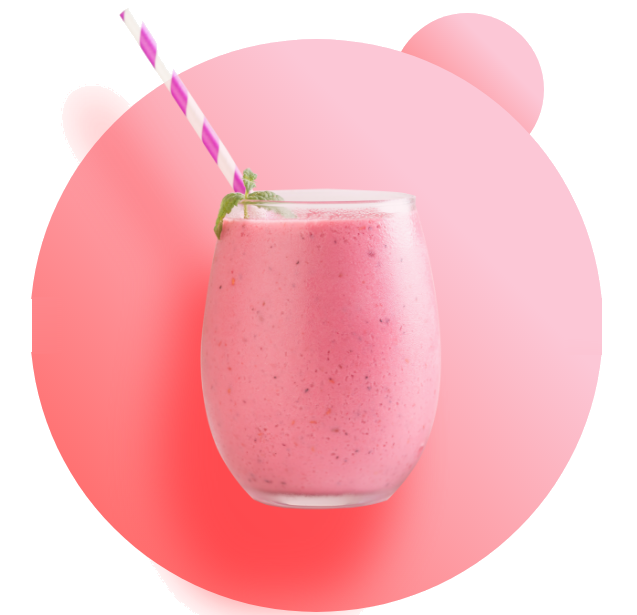
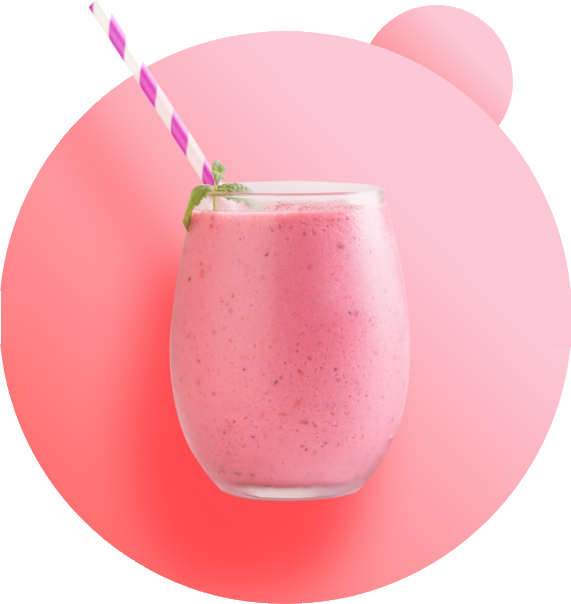
Style updates

diff --git a/css/base/home.css b/css/base/home.css
@@ -2,21 +2,124 @@
 @import '../components/font-awesome.min.css';
 @import '../components/button.css';
 
+:root {
+    --primary-color: #FF5E61;
+}
 
 body {
     display: flex;
     height: 100vh;
     flex-direction: column;
     gap: 30px;
+    padding-top: 20px;
     justify-content: flex-start;
     align-items: center;
-
 }
 
 .container {
+    display: flex;
+    justify-content: flex-end;
+    align-items: center;
+    gap: 50px;
     width: 100%;
-    background-color: yellow;
 }
+
+.container > *:first-child{
+    margin-right: auto;
+}
+
+.logo {
+    max-height: 40px;
+}
+
+.menu {
+    display: flex;
+    gap: 20px;
+}
+
+.menu > a {
+    color: #000;
+    text-decoration: none;
+}
+.menu > a:hover {
+    color: var(--primary-color);
+    text-decoration: underline;
+}
+
+.icons{
+    display: flex;
+    gap: 20px
+}
+
+.icons > a {
+    color: #000;
+    text-decoration: none;
+}   
+.icons > a:hover {
+    color: var(--primary-color);
+    text-decoration: underline;
+}
+
+.gallery {
+    width: 60%;
+    padding: 0 0.7em;
+    position: relative;
+    font-size: 40px;
+}
+
+.gallery > img {
+    width: 100%;
+}
+
+.gallery > .fa {
+    position: absolute;
+    top: 50%;
+    transform: translateY(-50%);
+    width: 1.4em;
+    height: 1.4em;
+    line-height: 1.4em;
+    text-align: center;
+    color: #fff;
+    background-color: var(--primary-color);
+    border-radius: 50%;
+}
+
+.gallery > .fa.fa-angle-left {
+    left: 0;
+    padding-right: 0.17em;
+    /* transform: translateX(-10%); */
+}
+.gallery > .fa.fa-angle-right {
+    right: 0;
+    padding-left: 0.17em;
+    /* transform: translateX(10%); */
+}
+
+.text {
+    width: 40%;
+}
+
+
+
+
+
+
+
+
+
+
+
+
+
+
+
+
+
+
+
+
+
+
 
 @media (min-width: 480px) {
     .container {

diff --git a/index.html b/index.html
@@ -11,10 +11,26 @@
 
 <body>
     <header class="container">
-        HEADER
+        <img class="logo" src="./img/logo.png" alt="Logo">
+        <nav class="menu">
+            <a href="#">Home</a>
+            <a href="#">Smoothies</a>
+            <a href="#">Contact us</a>
+        </nav>
+        <nav class="icons">
+            <a href="#" class="fa fa-shopping-bag"></a>
+            <a href="#" class="fa fa-search"></a>
+        </nav>
     </header>
     <main class="container">
-        MAIN CONTENT
+        <div class="gallery">
+            <img src="./img/smoothie.png" alt="Drink">
+            <i class="fa fa-angle-left"></i>
+            <i class="fa fa-angle-right"></i>
+        </div>
+        <div class="text">
+            ABOUT ITEM
+        </div>
     </main>
 </body>
 
